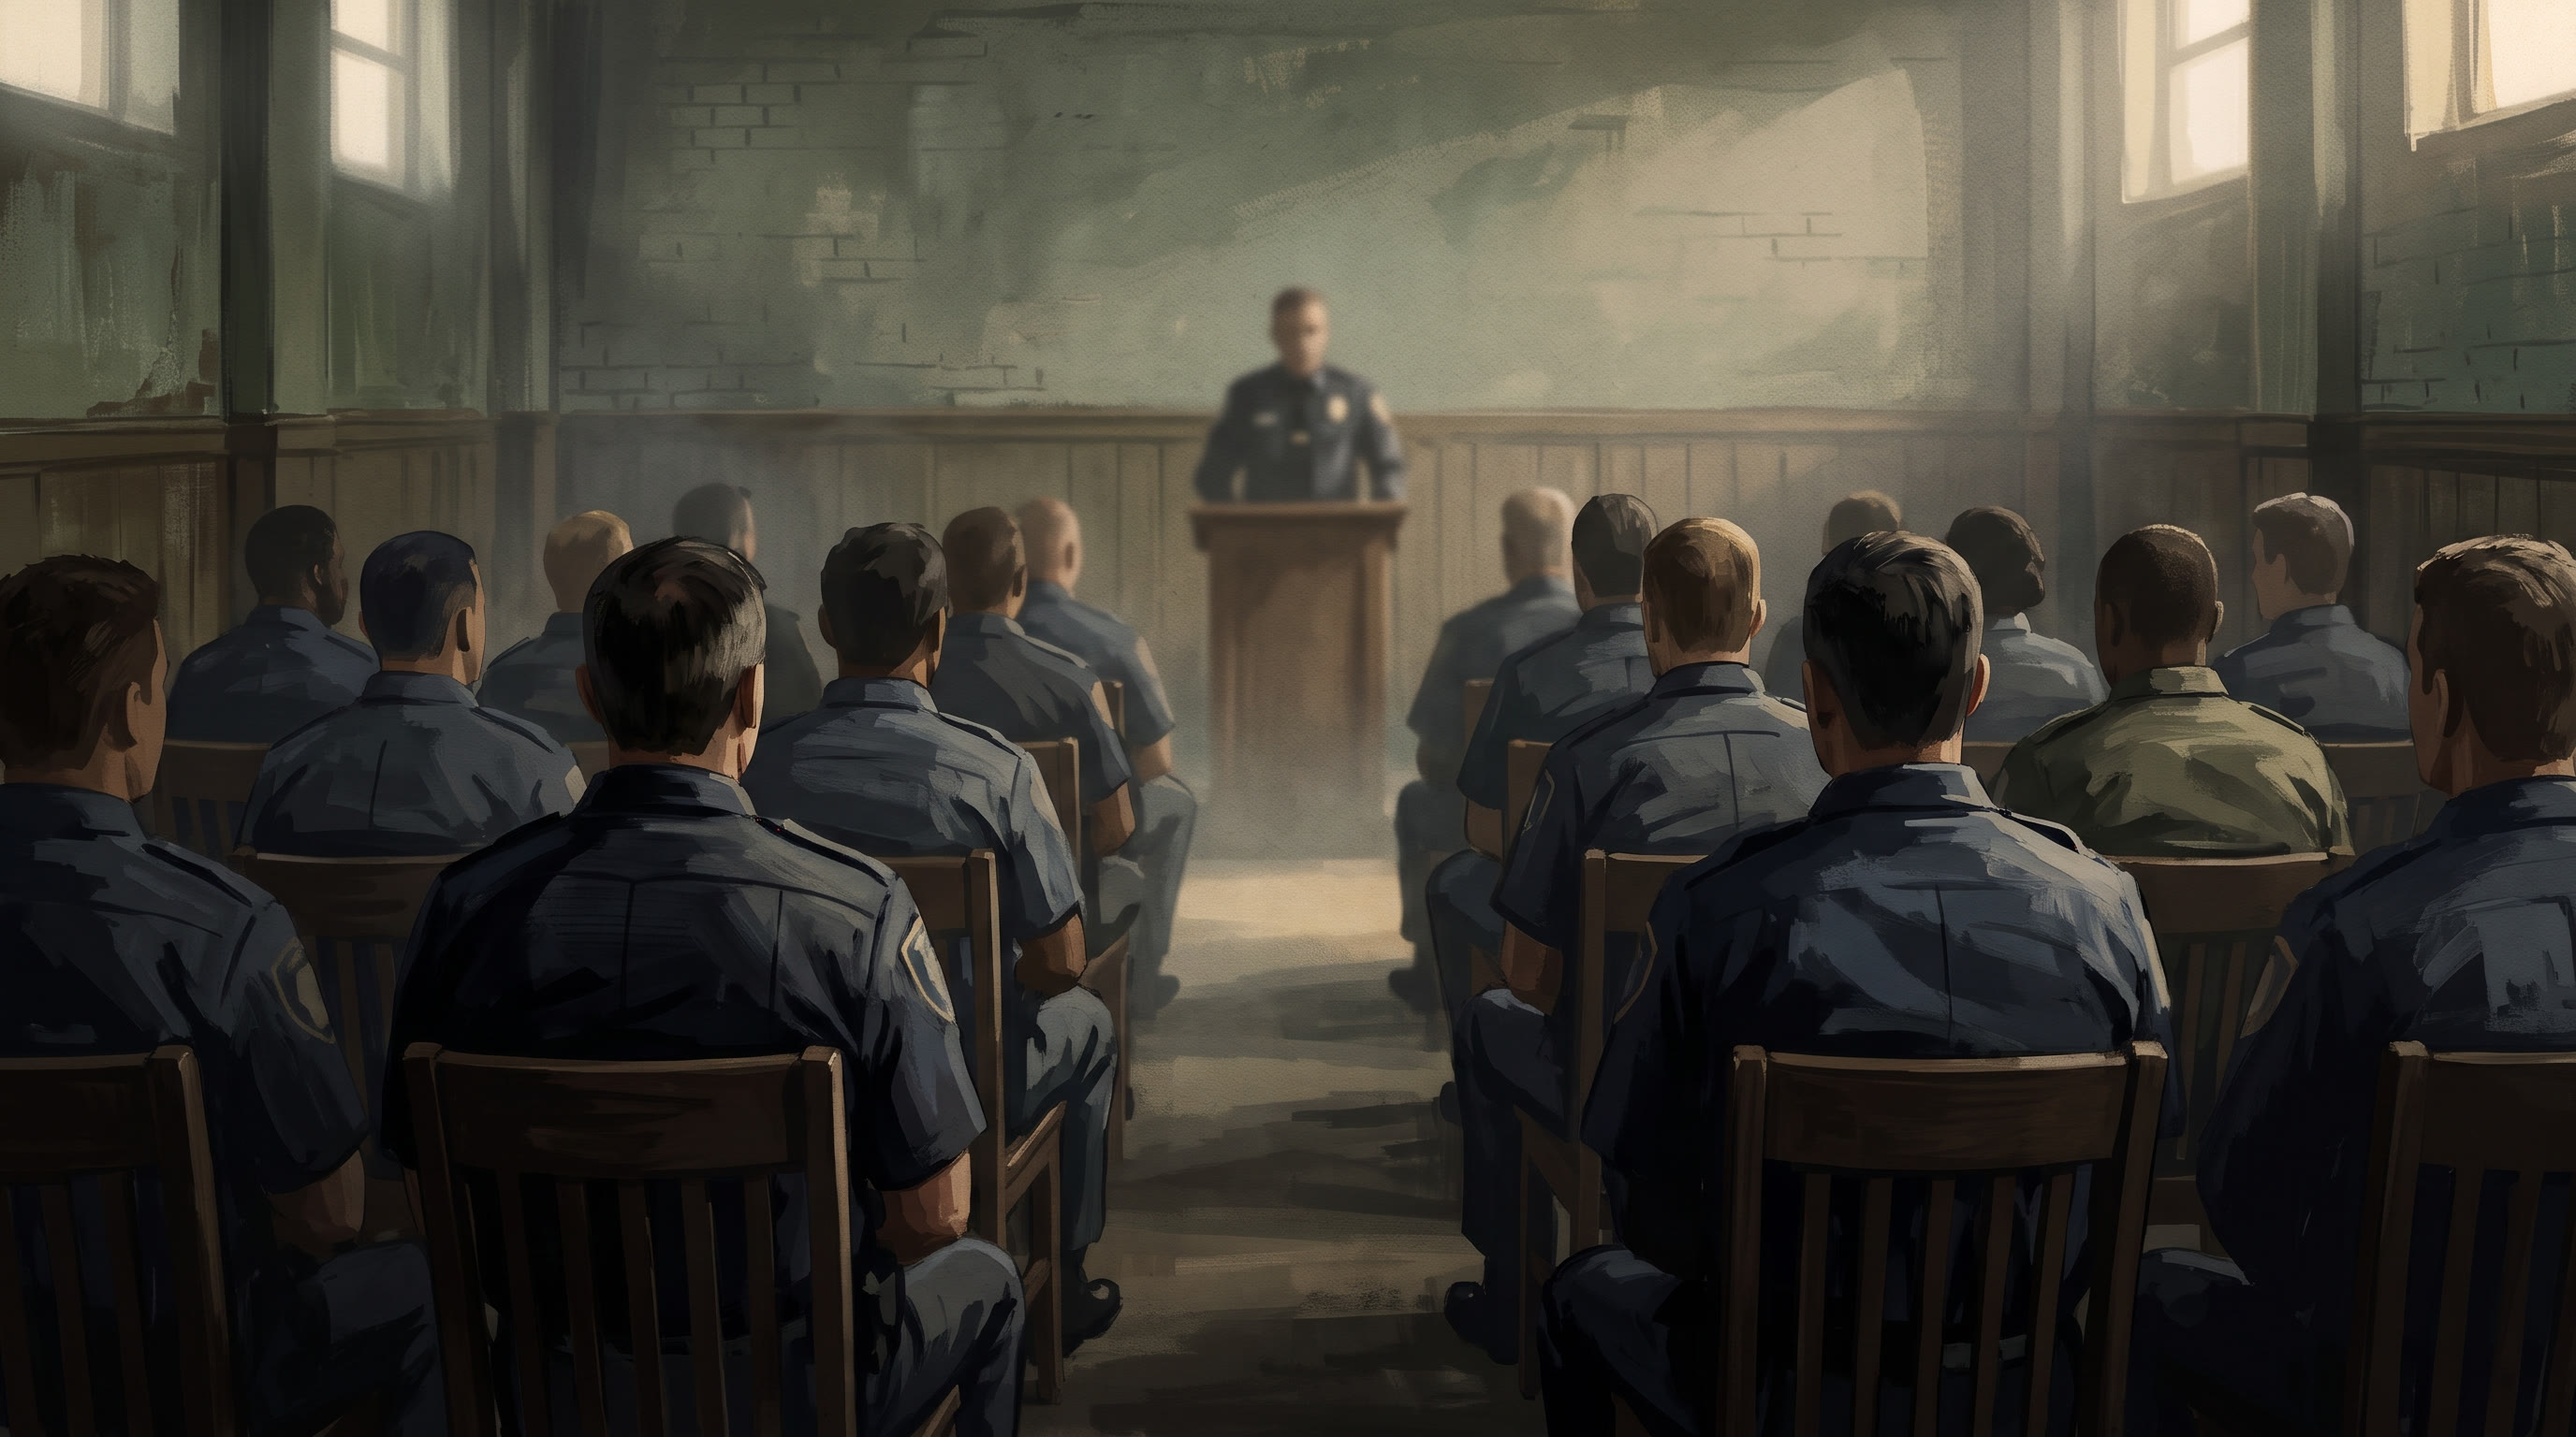
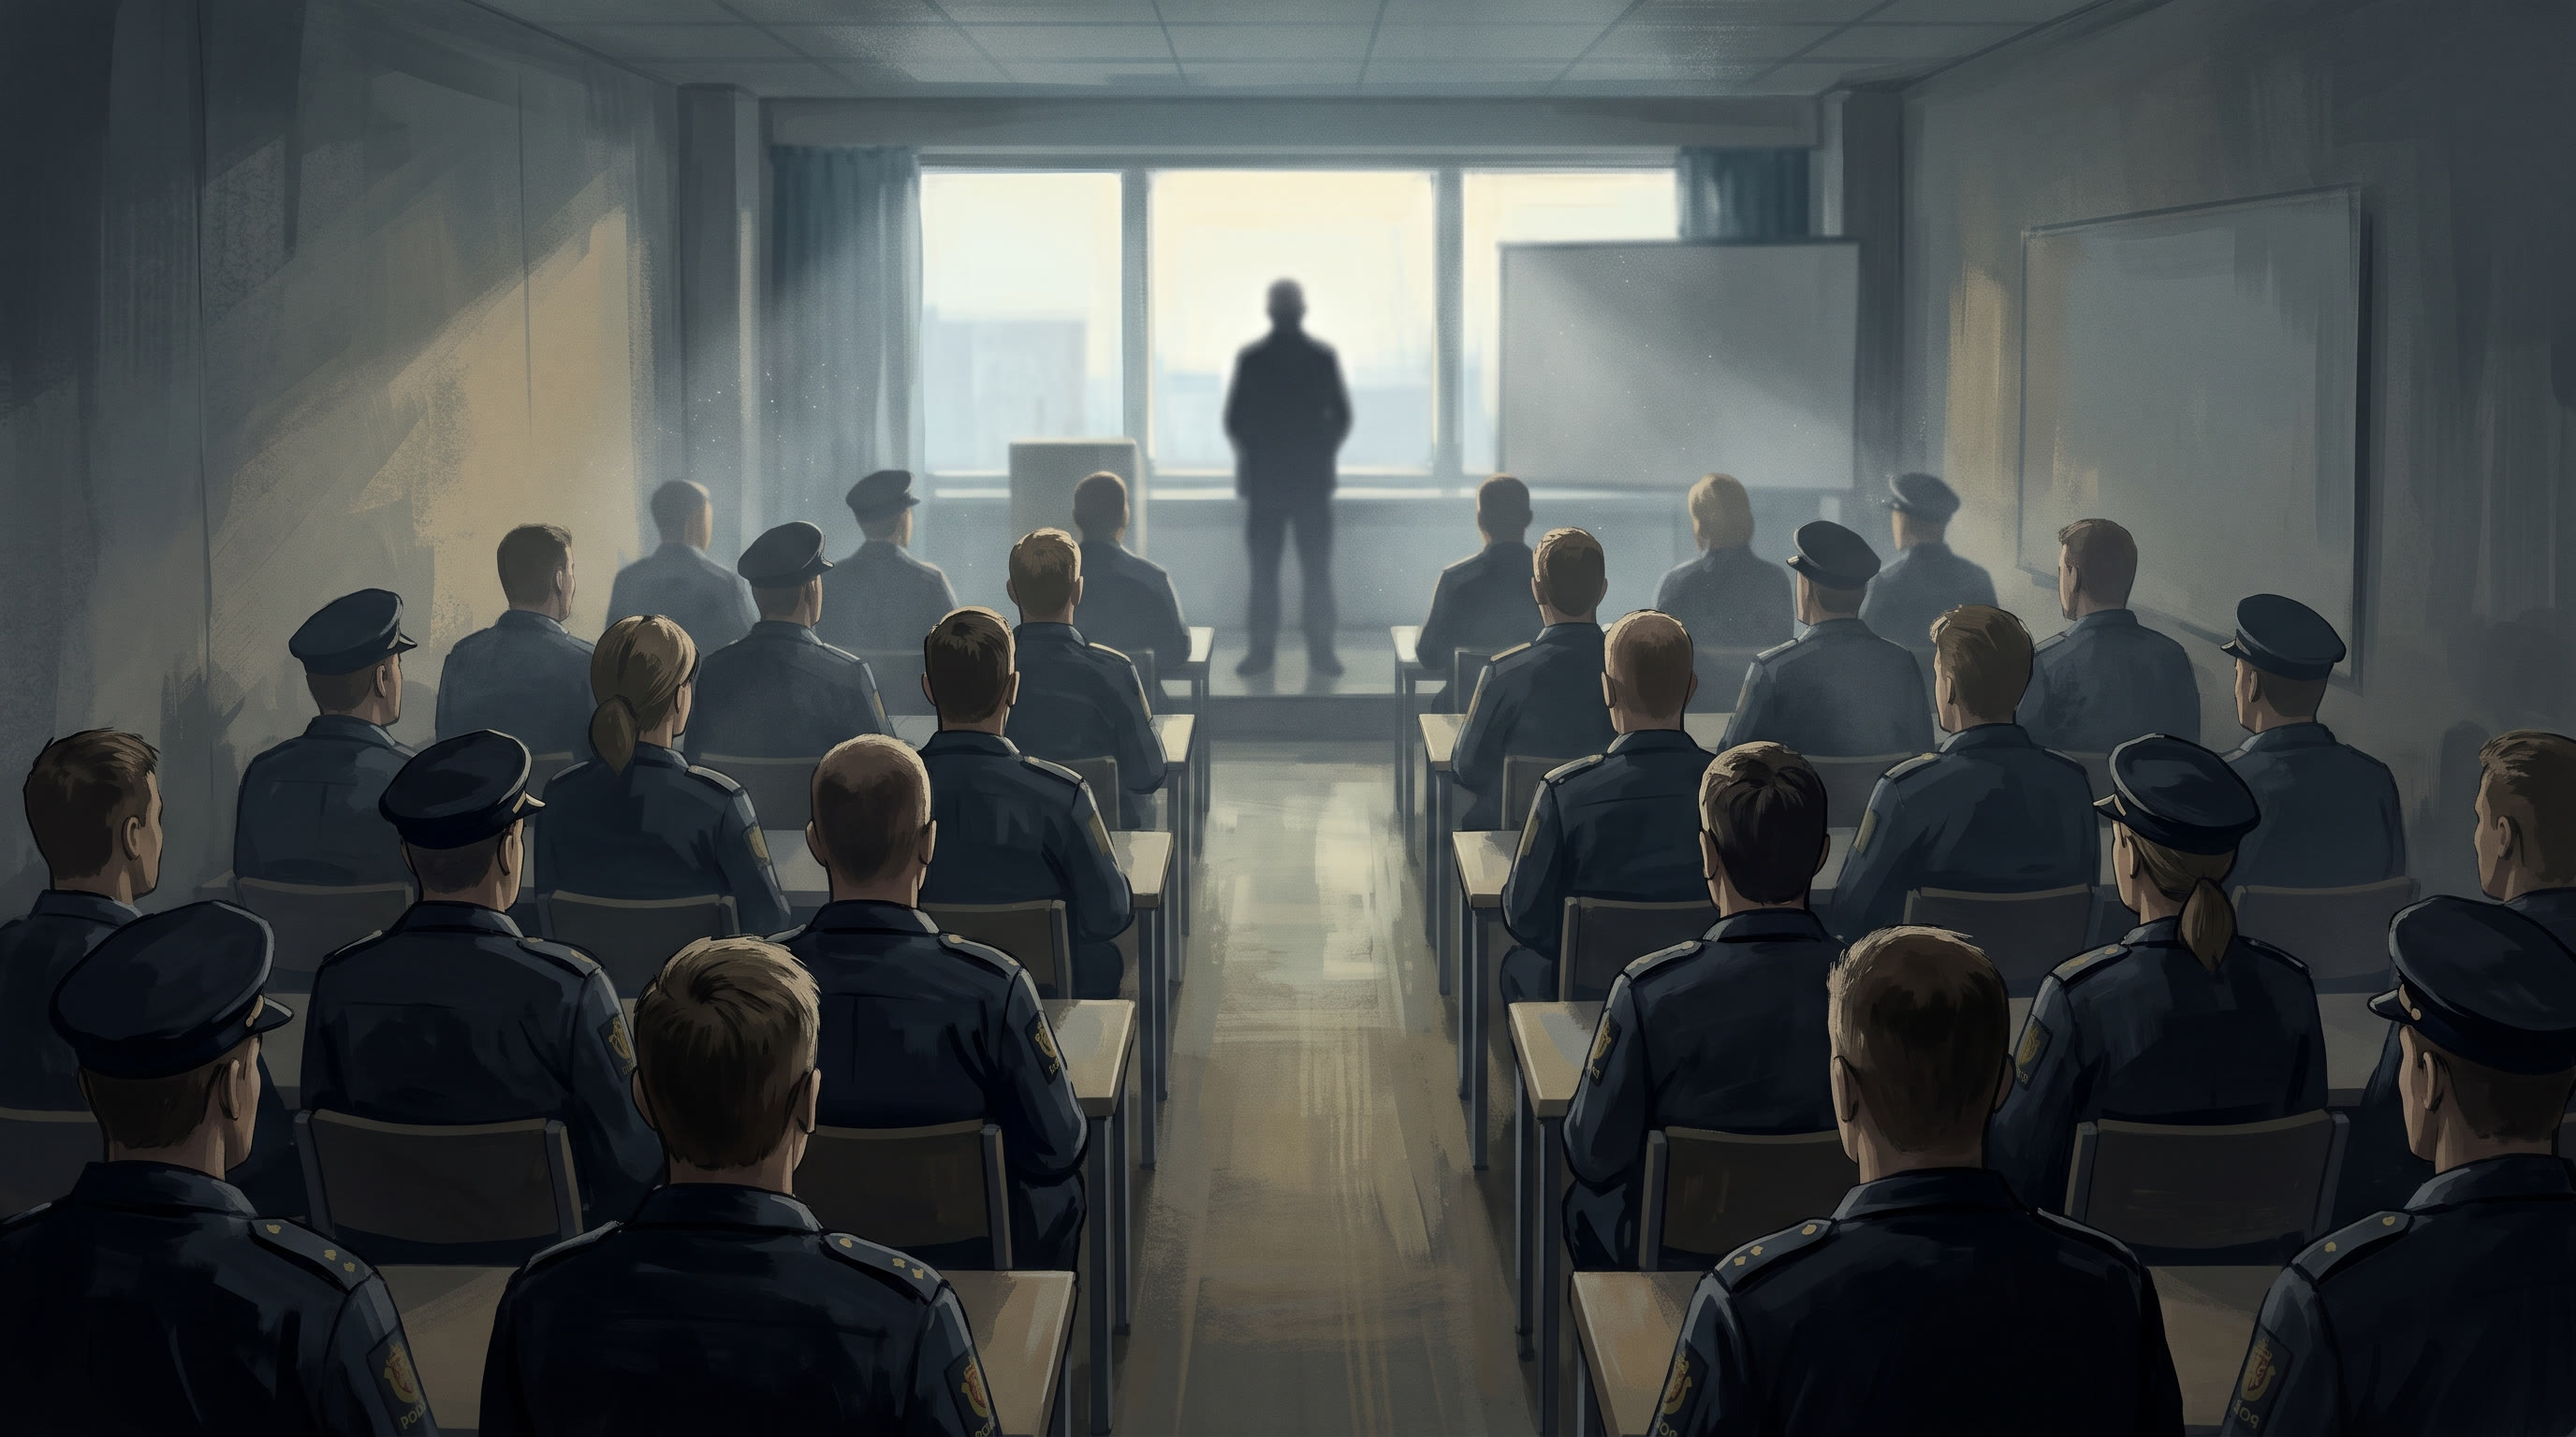
Redo still 11.1: officers strictly from behind, featureless speaker
Claude-Session: https://claude.ai/code/session_01AdS68Yi9NYhiPVMHzjRTYU

diff --git a/THE_GLASS/02_VISUAL_DEVELOPMENT/shot_stills_v001/make_shot_prompts.py b/THE_GLASS/02_VISUAL_DEVELOPMENT/shot_stills_v001/make_shot_prompts.py
@@ -32,7 +32,7 @@ S = [
  (1002,"ROB","Pine woods at night, torch beams cutting through the trees, several faceless dark-clad figures in overalls and balaclavas seen from behind, standing still. No weapons visible."),
  (1003,"ROB","Close-up of a white cloth band taped around the dark sleeve of work overalls, torch light, night."),
  (1004,"","Close-up of a plain analog wristwatch with a blank dial and no numbers on a dark gloved wrist, cold light."),
- (1101,"","A police briefing room in early morning light: rows of uniformed officers seen from behind, seated, a figure at the front softly out of focus, no faces visible, nothing written on the walls."),
+ (1101,"","A Norwegian police briefing room in 2004, early morning light, seen from the very back of the room at a slightly raised angle. Rows of seated uniformed officers seen strictly from directly behind: only the backs of heads, necks and shoulders, everyone looking straight ahead, no profiles, no side faces, no ears turned toward camera. At the far front, a single standing figure is a dark featureless silhouette against a bright window, softly out of focus. Plain walls, nothing written on them."),  # v002 redo
  (1201,"BG4","High-angle grainy security-camera view looking down on an empty street in a small Norwegian coastal city at dawn in 2004: low white-painted wooden houses with pitched roofs and a plain concrete office building, wet asphalt, narrow pavement, one street lamp. Scandinavian architecture only, no fire escapes, no brick tenements, no American details. Monochrome blue-green tint, no text or timecode."),  # v002 redo
  (1202,"","A white early-2000s Swedish heavy truck (Volvo FH style flat-fronted cab-over cab, no badges or lettering) with a covered flatbed, parked across a driveway beside a plain Norwegian industrial building, thick grey smoke rising from the cab, a small orange glow inside the cab only, no flames spreading. European truck, not an American long-nose truck. Fire orange glow against blue-grey morning."),  # v002 redo
  (1301,"BG1 ROB","The enclosed courtyard seen from behind three faceless dark-clad silhouettes standing at the wide green window, cold grey light with faint orange flashes on the walls. No weapon pointed at the viewer."),

diff --git a/THE_GLASS/09_DELIVERABLES/tools/build_stills_animatic.py b/THE_GLASS/09_DELIVERABLES/tools/build_stills_animatic.py
@@ -21,7 +21,7 @@ MOTION = {"S02_01": 201, "S03_02": 302, "S05_01": 501, "S07_02": 702, "S08_03": 
           "S12_02": 12022, "S13_04": 1304, "S14_02": 1402, "S14_04": 1404, "S17_04": 1704, "S18_02": 1802,
           "S18_04": 1804, "S19_02": 1902, "S21_01": 2101, "S22_02": 2202, "S24_01": 2401}
 USE_MOTION = os.environ.get("USE_MOTION", "1") == "1"
-OUT = os.path.join(ROOT, "09_DELIVERABLES/animatic_motion_v008c")
+OUT = os.path.join(ROOT, "09_DELIVERABLES/animatic_motion_v008d")
 TMP = os.path.join(OUT, "clips")
 os.makedirs(TMP, exist_ok=True)
 FONT = "/usr/share/fonts/truetype/dejavu/DejaVuSans.ttf"
@@ -188,7 +188,7 @@ with open(lst, "w") as fh:
     fh.writelines(f"file '{c}'\n" for c in clips)
 silent = os.path.join(OUT, "video_only.mp4")
 subprocess.run(["ffmpeg", "-nostdin", "-v", "error", "-y", "-f", "concat", "-safe", "0", "-i", lst, "-c", "copy", silent], check=True)
-final = os.path.join(OUT, "THE_GLASS_motion_animatic_v008c.mp4")
+final = os.path.join(OUT, "THE_GLASS_motion_animatic_v008d.mp4")
 subprocess.run(["ffmpeg", "-nostdin", "-v", "error", "-y", "-i", silent, "-i", MIX, "-map", "0:v", "-map", "1:a", "-c:v", "copy",
                 "-c:a", "aac", "-b:a", "192k", "-shortest", "-movflags", "+faststart", final], check=True)
 print(f"video {total:.1f} s; WROTE {final}")

diff --git a/THE_GLASS/00_PROJECT_MANAGEMENT/HANDOFF_AND_PLAYBOOK.md b/THE_GLASS/00_PROJECT_MANAGEMENT/HANDOFF_AND_PLAYBOOK.md
@@ -63,7 +63,7 @@ The dramatic question changes from **"Will the plan work?"** to **"Who pays for 
 | Style references | Approved | `02_VISUAL_DEVELOPMENT/style_refs_v001/` |
 | Shot stills | 65 finals (63 plus 2 officer stills) | `02_VISUAL_DEVELOPMENT/shot_stills_v001/final_jpg/` |
 | Motion | 18 Seedance clips, all passed the check | `06_AI_VIDEO/motion_v001/clips/` |
-| **Latest cut** | **Motion animatic v008c, 11:44** (v008b plus the five still redos) | `09_DELIVERABLES/animatic_motion_v008c/THE_GLASS_motion_animatic_v008c.mp4` |
+| **Latest cut** | **Motion animatic v008d, 11:44** (v008b plus the six still redos) | `09_DELIVERABLES/animatic_motion_v008d/THE_GLASS_motion_animatic_v008d.mp4` |
 
 **Abandoned:** the four Blender 3D sequences (dropped by the producer). Their files remain in `05_BLENDER/`, untouched.
 
@@ -71,8 +71,8 @@ The dramatic question changes from **"Will the plan work?"** to **"Who pays for 
 
 1. **Producer review of the motion animatic.** Expect notes on timing, sound and stills.
 2. **Still redos:**
-   - **Done (22 Nov):** 12.1, 12.2, 16.2, 18.3 and 22.4. Details are in the shot stills README (v002 redos); 12.2 also got a new motion clip, M_12022.
-   - **Still open (optional, 2 credits each):** 11.1 (some officers show partial side faces), 7.2, 23.1.
+   - **Done (22 Nov):** 11.1, 12.1, 12.2, 16.2, 18.3 and 22.4. Details are in the shot stills README (v002 redos); 12.2 also got a new motion clip, M_12022.
+   - **Still open (optional, 2 credits each):** 7.2, 23.1.
 3. **Klungland:** the producer chose anonymous officer stills (9.4 and 19.3) over a portrait. The captions are "Arne Sigve Klungland" and "In memory of Arne Sigve Klungland · 1950 – 2004". If a reference photo is provided later, redo 9.4 / 19.3 to resemble it, but only with the family's consent.
 4. **Family letter** (`01_SCRIPT_STORYBOARD/phase4/THE_GLASS_klungland_family_letter_DRAFT_v001.md`): the producer sends it. Have a native speaker check the Norwegian first.
 5. **Before publication:**
@@ -101,7 +101,7 @@ The dramatic question changes from **"Will the plan work?"** to **"Who pays for 
   - Imogen `jv41DhCf464zw0TI7I1w`
   - David `rSLmFOTRq9g87aTxSUr6`
 
-**Higgsfield** (Plus plan): **about 492 credits left** (22 Nov, after the redos).
+**Higgsfield** (Plus plan): **about 490 credits left** (22 Nov, after the redos).
 
 **Style reference job IDs** (pass them as `image_references`):
 
@@ -168,7 +168,7 @@ The job ID of every still and clip is in `shot_stills_v001/jobs.tsv` and `motion
 4. **Animatic:** `python3 -I 09_DELIVERABLES/tools/build_stills_animatic.py THE_GLASS_ROOT`.
    - Shot order, durations, cards, lower-thirds, the 113 counter and the captions are set in its `PLAN` dict.
    - Motion clips are swapped in through its `MOTION` map; set `USE_MOTION=0` to use stills only.
-   - It reads `mix_v008b` and writes to `animatic_motion_v008c`. Bump the output version before each new build.
+   - It reads `mix_v008b` and writes to `animatic_motion_v008d`. Bump the output version before each new build.
    - Shrink the output with `crf 27` before committing; GitHub warns above 50 MB.
 
 ## 7. Lessons learned (do not repeat)

diff --git a/THE_GLASS/02_VISUAL_DEVELOPMENT/shot_stills_v001/README.md b/THE_GLASS/02_VISUAL_DEVELOPMENT/shot_stills_v001/README.md
@@ -18,6 +18,7 @@
 - **12.2** (`SH_12022`) and **18.3** (`SH_18032`): flat-fronted European cab-over truck, Volvo FH style. A small diagonal grille bar is visible; there is no readable badge.
 - **16.2** (`SH_16022_clean`, ref BG3): a Volvo V70 estate with the blue and black chequered stripe. Faint pseudo-letters on one vest were painted out locally (the unedited master is `SH_16022`).
 - **22.4** (`SH_22042`, ref 22.3): two backlit figures walk in toward the camera.
+- **11.1** (`SH_11012`): seen from the back of the room; backs of heads only, and the speaker is a featureless silhouette against the window. The shoulder patches carry a lion crest with tiny illegible marks.
 - The old JPGs are in `superseded/`.
 
 **Minor issues, acceptable for now; fix later if wanted:**
@@ -27,7 +28,6 @@
 | 7.2 | The figure at the lectern faces the camera, but is small and has no facial detail. |
 | 8.1 | A small walker appears in the underpass. |
 | 10.4 | The watch is on a sweater cuff, not a glove. |
-| 11.1 | The front row of officers shows partial side faces. The figure at the front stands in Klungland's role, but has no facial detail. |
 | 23.1 | The hall looks like an old church hall. |
 
 Everything is regenerable with `make_shot_prompts.py` (prompts) and `next.py` (queue).
